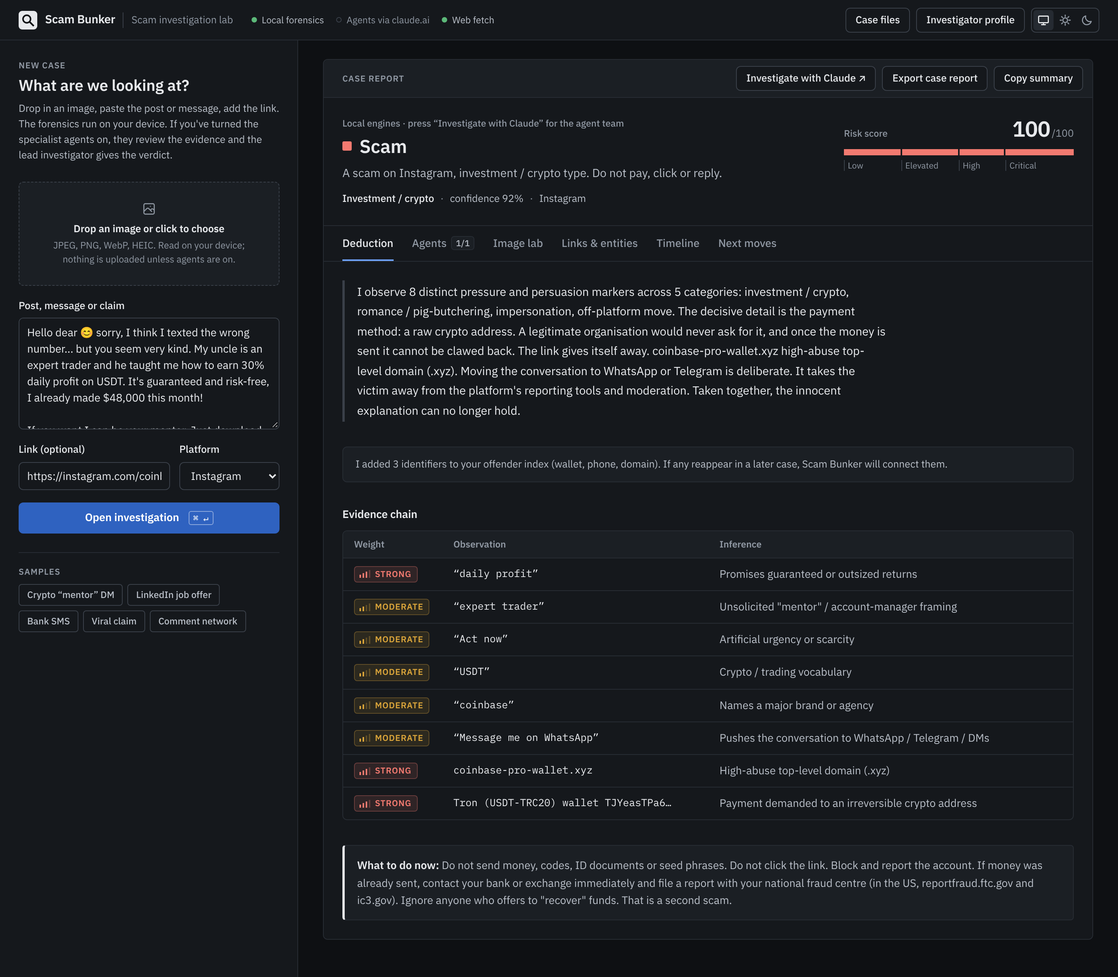
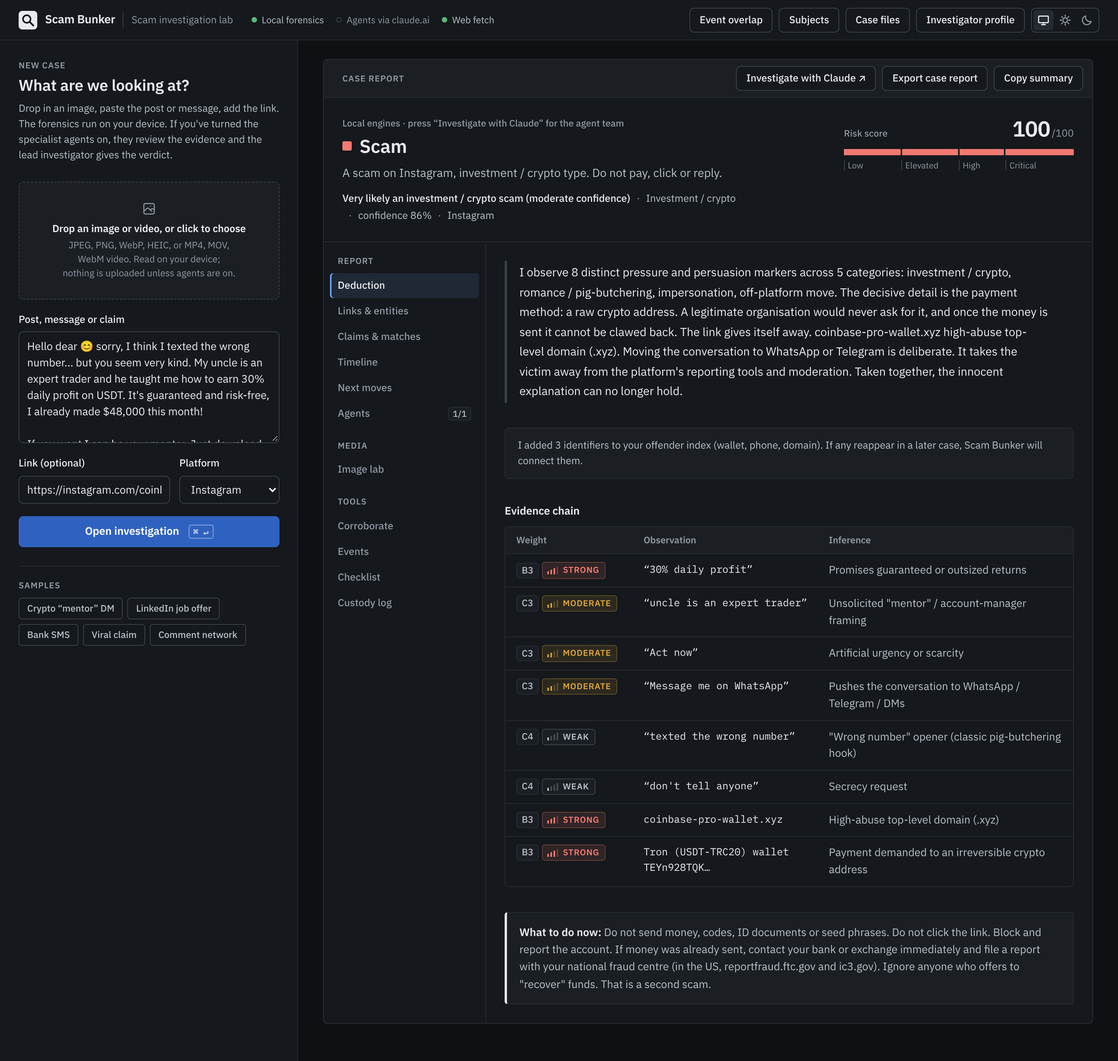
Merge Subjects/dossier into the design system; finish module consistency
- osint.css rewritten as a module stylesheet on the design tokens: Subjects
  workspace, username sweep grid, dossier cards and view, identifier table,
  case-panel attach list (wraps long wallets at 390px)
- Vertical section-nav styles scoped to #report so dialog tablists keep the
  horizontal style
- Evidence table: the weight column now accepts the Admiralty grade + weight
  cell from grading.js
- Top-bar actions wrap on phones; verdict meta wraps; mobile .row stacks
  left-aligned
- 24px checkboxes (WCAG 2.2 target size); 24px standalone link targets
- custody.js scroll regions get their own labels (duplicate landmark names);
  Subjects dialog header role="none"
- DESIGN.md: section nav, form elements, module stylesheet rules
- axe-core: 0 violations across 304 states (every section, all samples, image
  case, all dialogs, dossier view; light/dark, system/forced; 1440/390)

Claude-Session: https://claude.ai/code/session_01PLjxsD1qZzcUFAUYnbDM4b

diff --git a/public/osint.css b/public/osint.css
@@ -1,66 +1,85 @@
-/* Subject investigation & offender dossiers (public/osint.js). Scoped to .osint / .os-*; uses app.css tokens only. */
+/* Subject investigation & offender dossiers (public/osint.js, public/dossier.js).
+   Module stylesheet: scoped to .osint / .os-*; uses app.css tokens and components only (see docs/DESIGN.md). */
 .drawer.osint { width: min(1080px, calc(100vw - 32px)); max-height: calc(100vh - 40px); }
-.os-wrap { padding: 20px 22px; display: grid; gap: 12px; }
+.drawer.osint form { padding: 0; }
+.os-wrap { padding: var(--s5); display: grid; gap: var(--s4); }
+.os-wrap > *, .os-section > *, .os-section { min-width: 0; }
 .os-wrap > header { display: flex; align-items: center; justify-content: space-between; gap: 10px; }
-.os-ethics { margin: 0; padding: 10px 14px; border-radius: 10px; border: 1px dashed var(--line-2); color: var(--ink-2); font-size: 13px; }
+.os-wrap > header h3 { font-size: var(--fs-lg); }
+.os-ethics { margin: 0; padding: var(--s3) var(--s4); border: 1px solid var(--line); border-left: 3px solid var(--ink); border-radius: var(--radius-sm); background: var(--subtle); color: var(--ink-2); font-size: var(--fs-md); line-height: 1.55; }
 .os-ethics b { color: var(--ink); }
-.os-tabs { margin: 4px 0 0; }
-.osint input[type=text], .osint input[type=search], .osint select { width: 100%; background: var(--bg-2); border: 1px solid var(--line); border-radius: 10px; padding: 9px 12px; outline: none; }
-.osint textarea { min-height: 0; font: 13px/1.5 var(--mono); }
-.os-grid2 { display: grid; grid-template-columns: 1fr 1fr; gap: 10px 14px; }
+.os-tabs { margin: 0 calc(var(--s5) * -1); }
+.osint textarea { min-height: 0; font: var(--fs-md)/1.5 var(--mono); }
+.os-grid2 { display: grid; grid-template-columns: minmax(0, 1fr) minmax(0, 1fr); gap: var(--s3) var(--s4); }
 .os-grid2 .field { margin-bottom: 0; }
-.os-hint { font-size: 12px; color: var(--muted); font-weight: 400; }
-.os-bar { display: flex; flex-wrap: wrap; gap: 8px; align-items: center; }
+.os-hint { font-size: var(--fs-sm); color: var(--muted); font-weight: 400; }
+.os-bar { display: flex; flex-wrap: wrap; gap: var(--s2); align-items: center; }
 .os-bar .grow { flex: 1; min-width: 180px; }
 .os-section { display: grid; gap: 10px; }
-.os-section h4 { margin: 0; font: 600 15px var(--serif); }
-.os-sum { font: 12px var(--mono); color: var(--muted); }
+.os-section h4 { margin: 0; font-size: var(--fs-base); font-weight: 600; color: var(--ink); }
+.os-sum { font: var(--fs-sm) var(--mono); color: var(--muted); font-variant-numeric: tabular-nums; }
 
 /* Username sweep grid */
-.os-sites { list-style: none; margin: 0; padding: 0; display: grid; grid-template-columns: repeat(auto-fill, minmax(190px, 1fr)); gap: 6px; }
-.os-site { border: 1px solid var(--line); border-radius: 9px; background: var(--bg-2); padding: 8px 10px; font-size: 13px; display: grid; gap: 2px; min-width: 0; }
-.os-site .n { font-weight: 600; display: flex; justify-content: space-between; gap: 6px; align-items: baseline; }
+.os-sites { list-style: none; margin: 0; padding: 0; display: grid; grid-template-columns: repeat(auto-fill, minmax(200px, 1fr)); gap: 6px; }
+.os-site { display: grid; gap: 2px; min-width: 0; padding: var(--s2) 10px; border: 1px solid var(--line); border-radius: var(--radius); background: var(--surface); font-size: var(--fs-md); }
+.os-site .n { display: flex; justify-content: space-between; gap: 6px; align-items: baseline; font-weight: 600; }
 .os-site .n a { color: var(--ink); overflow: hidden; text-overflow: ellipsis; white-space: nowrap; }
-.os-site small { color: var(--muted); font: 11px var(--mono); overflow-wrap: anywhere; }
-.os-site[data-status=found] { border-color: color-mix(in srgb, var(--accent) 55%, var(--line)); background: var(--accent-soft); }
+.os-site small { color: var(--muted); font: var(--fs-xs) var(--mono); overflow-wrap: anywhere; }
+.os-site[data-status=found] { border-color: color-mix(in srgb, var(--accent) 45%, var(--line)); background: var(--accent-soft); }
 .os-site[data-status=found] .n a { color: var(--accent); }
-.os-site[data-status=unknown], .os-site[data-status=checking] { opacity: .62; }
-.os-site[data-status=not_found] { opacity: .45; }
-.os-site[data-status=blocked] { border-style: dashed; opacity: .7; }
-.os-st { font: 600 10px var(--mono); text-transform: uppercase; letter-spacing: .05em; padding: 1px 6px; border-radius: 5px; background: var(--surface-2); color: var(--muted); flex: none; }
-.os-site[data-status=found] .os-st { background: var(--accent); color: var(--accent-ink); }
-.os-site[data-status=blocked] .os-st { color: var(--amber); }
+.os-site[data-status=unknown], .os-site[data-status=checking], .os-site[data-status=not_found] { background: var(--subtle); }
+.os-site[data-status=unknown] .n a, .os-site[data-status=checking] .n a, .os-site[data-status=not_found] .n a { color: var(--ink-2); font-weight: 500; }
+.os-site[data-status=blocked] { border-style: dashed; }
+.os-st { flex: none; padding: 1px 6px; border-radius: var(--radius-sm); border: 1px solid var(--line); background: var(--surface); color: var(--muted); font: 600 var(--fs-xs)/1.4 var(--sans); text-transform: uppercase; letter-spacing: .05em; }
+.os-site[data-status=found] .os-st { background: var(--btn); border-color: transparent; color: var(--on-btn); }
+.os-site[data-status=blocked] .os-st { color: var(--amber); border-color: color-mix(in srgb, var(--amber) 35%, transparent); background: var(--amber-soft); }
 
 /* Dossiers */
-.os-dossiers { display: grid; grid-template-columns: minmax(0, 1fr); gap: 8px; }
-.os-dcard { display: flex; gap: 12px; align-items: center; width: 100%; text-align: left; padding: 12px 14px; border: 1px solid var(--line); border-radius: 10px; background: var(--bg-2); cursor: pointer; color: var(--ink); }
-.os-dcard:hover { border-color: var(--accent); }
-.os-dcard .t { flex: 1; min-width: 0; } .os-dcard .t b { display: block; font-size: 14.5px; } .os-dcard .t span { display: block; font-size: 12.5px; color: var(--muted); white-space: nowrap; overflow: hidden; text-overflow: ellipsis; }
-.os-risk { font: 700 18px/1 var(--serif); min-width: 44px; text-align: center; padding: 8px 6px; border-radius: 8px; }
-.os-risk.high { background: var(--red-soft); color: var(--red); } .os-risk.medium { background: var(--amber-soft); color: var(--amber); } .os-risk.low { background: var(--blue-soft); color: var(--blue); }
+.os-dossiers { display: grid; grid-template-columns: minmax(0, 1fr); gap: 6px; }
+.os-dcard { display: flex; gap: var(--s3); align-items: center; width: 100%; text-align: left; padding: 10px var(--s3); border: 1px solid var(--line); border-radius: var(--radius); background: var(--surface); cursor: pointer; color: var(--ink); }
+.os-dcard:hover { background: var(--subtle); border-color: var(--line-2); }
+.os-dcard .t { flex: 1; min-width: 0; }
+.os-dcard .t b { display: block; font-size: var(--fs-base); font-weight: 600; }
+.os-dcard .t span { display: block; font-size: var(--fs-sm); color: var(--muted); white-space: nowrap; overflow: hidden; text-overflow: ellipsis; }
+.os-risk { min-width: 44px; padding: 6px; border-radius: var(--radius-sm); border: 1px solid transparent; text-align: center; font-size: var(--fs-lg); font-weight: 600; line-height: 1.2; font-variant-numeric: tabular-nums; }
+.os-risk.high { background: var(--red-soft); color: var(--red); border-color: color-mix(in srgb, var(--red) 30%, transparent); }
+.os-risk.medium { background: var(--amber-soft); color: var(--amber); border-color: color-mix(in srgb, var(--amber) 30%, transparent); }
+.os-risk.low { background: var(--subtle); color: var(--ink-2); border-color: var(--line-2); }
 .os-chips { display: flex; flex-wrap: wrap; gap: 6px; }
-.os-table { width: 100%; border-collapse: collapse; font-size: 13px; }
-.os-table th, .os-table td { text-align: left; padding: 7px 10px; border-bottom: 1px solid var(--line); vertical-align: top; overflow-wrap: anywhere; }
-.os-table th { font: 500 10.5px var(--mono); text-transform: uppercase; letter-spacing: .08em; color: var(--muted); }
+.drawer.osint .verdict { grid-template-columns: auto minmax(0, 1fr); gap: var(--s4); align-items: center; padding: var(--s4); border: 1px solid var(--line) !important; box-shadow: none; }
+.drawer.osint .verdict h4 { font-size: var(--fs-xl) !important; overflow-wrap: anywhere; }
+
+/* Identifier table */
+.os-table { width: 100%; border-collapse: collapse; font-size: var(--fs-md); border: 1px solid var(--line); }
+.os-table th, .os-table td { text-align: left; padding: var(--s2) var(--s3); border-bottom: 1px solid var(--line); vertical-align: top; overflow-wrap: anywhere; font-variant-numeric: tabular-nums; }
+.os-table th { background: var(--subtle); font-size: var(--fs-sm); font-weight: 600; color: var(--muted); }
+.os-table tbody tr:last-child td { border-bottom: 0; }
+.os-table code { font-size: var(--fs-sm); overflow-wrap: anywhere; word-break: break-all; }
+
+/* Linked cases */
 .os-cases { list-style: none; margin: 0; padding: 0; display: grid; grid-template-columns: minmax(0, 1fr); gap: 6px; }
 .os-cases li { min-width: 0; }
-.os-cases button { width: 100%; text-align: left; display: flex; gap: 10px; align-items: center; padding: 9px 12px; border: 1px solid var(--line); border-radius: 9px; background: var(--bg-2); cursor: pointer; color: var(--ink); font-size: 13.5px; }
-.os-cases button:hover { border-color: var(--accent); }
-.os-cases .d { width: 9px; height: 9px; border-radius: 50%; flex: none; }
+.os-cases button { display: flex; gap: 10px; align-items: center; width: 100%; text-align: left; padding: var(--s2) var(--s3); border: 1px solid var(--line); border-radius: var(--radius); background: var(--surface); cursor: pointer; color: var(--ink); font-size: var(--fs-md); }
+.os-cases button:hover { background: var(--subtle); border-color: var(--line-2); }
+.os-cases .d { width: 10px; height: 10px; border-radius: 2px; flex: none; }
 .os-cases .s { flex: 1; min-width: 0; color: var(--muted); white-space: nowrap; overflow: hidden; text-overflow: ellipsis; }
 
-/* Case panel: link indicators to a subject */
-.os-attach .os-inds { display: flex; flex-wrap: wrap; gap: 6px 14px; margin: 8px 0 10px; font: 12.5px var(--mono); }
-.os-attach label { display: inline-flex; gap: 6px; align-items: center; cursor: pointer; }
+/* Case panel (Links & entities): attach indicators to a subject */
+.os-attach .os-inds { display: flex; flex-wrap: wrap; gap: 6px var(--s4); margin: var(--s2) 0 10px; font: var(--fs-md) var(--mono); }
+.os-attach label { display: inline-flex; gap: 6px; align-items: baseline; max-width: 100%; min-width: 0; cursor: pointer; word-break: break-all; }
+.os-attach label input, .os-attach label .tag { flex: none; word-break: normal; align-self: center; }
 .os-attach .os-bar select { width: auto; min-width: 200px; }
 
-.os-wrap > *, .os-section > *, .os-section { min-width: 0; }
-.os-table code { overflow-wrap: anywhere; word-break: break-all; }
 @media (max-width: 760px) {
-  .os-grid2 { grid-template-columns: 1fr; }
+  .os-wrap { padding: var(--s4); }
+  .os-tabs { margin: 0 calc(var(--s4) * -1); }
+  .os-grid2 { grid-template-columns: minmax(0, 1fr); }
   .os-table { table-layout: fixed; }
+  .os-table th:first-child { width: 72px; } .os-table th:last-child { width: 56px; }
+  .drawer.osint .verdict { grid-template-columns: minmax(0, 1fr); gap: var(--s3); }
+  .drawer.osint .verdict .os-risk { justify-self: start; }
+  .drawer.osint .verdict h4 { font-size: var(--fs-lg) !important; }
   .os-table th:nth-child(3), .os-table td:nth-child(3), .os-table th:nth-child(4), .os-table td:nth-child(4) { display: none; }
   .os-bar .grow { min-width: 0; }
-  .drawer.osint .verdict { flex-direction: row; align-items: center; }
+  .os-attach .os-bar select { width: 100%; min-width: 0; }
 }
-.drawer.osint form { padding: 0; }

diff --git a/public/app.css b/public/app.css
@@ -148,7 +148,7 @@ code, kbd, samp { font-family: var(--mono); }
 textarea, input:not([type]), input[type=url], input[type=text], input[type=search], input[type=date], input[type=time], input[type=datetime-local], input[type=number], input[type=email], select, .drawer textarea { width: 100%; background: var(--surface); border: 1px solid var(--line-2); border-radius: var(--radius); padding: var(--s2) 10px; outline: none; font-size: var(--fs-base); line-height: 1.5; resize: vertical; transition: border-color .12s, box-shadow .12s; }
 input:not([type]), input[type=url], input[type=text], input[type=search], input[type=date], input[type=time], input[type=datetime-local], input[type=number], input[type=email], select { height: 36px; padding-top: 0; padding-bottom: 0; }
 input[type=date], input[type=time] { width: auto; min-width: 160px; }
-input[type=checkbox], input[type=radio] { accent-color: var(--accent); width: 16px; height: 16px; margin: 0; }
+input[type=checkbox], input[type=radio] { accent-color: var(--accent); width: 24px; height: 24px; margin: 0; flex: none; }  /* WCAG 2.2 target size */
 input[type=file] { font-size: var(--fs-md); color: var(--ink-2); }
 input[type=file]::file-selector-button { height: 32px; margin-right: var(--s3); padding: 0 var(--s3); border: 1px solid var(--line-2); border-radius: var(--radius); background: var(--surface); color: var(--ink); font: 500 var(--fs-md) var(--sans); cursor: pointer; }
 textarea::placeholder, input::placeholder { color: var(--muted); }
@@ -183,7 +183,7 @@ textarea:focus, input:focus, select:focus { border-color: var(--focus); box-shad
 .v-body h2::before { content: ''; width: 12px; height: 12px; border-radius: 2px; background: var(--v, var(--muted)); flex: none; }
 .v-headline { margin: 0 0 var(--s3); color: var(--ink-2); font-size: 15px; line-height: 1.55; max-width: 68ch; }
 .v-tags { display: flex; flex-wrap: wrap; align-items: center; row-gap: 2px; font-size: var(--fs-md); color: var(--ink-2); }
-.v-tags .tag { border: 0; background: none; padding: 0; font: inherit; color: inherit; border-radius: 0; }
+.v-tags .tag { border: 0; background: none; padding: 0; font: inherit; color: inherit; border-radius: 0; white-space: normal; display: inline; }
 .v-tags .tag:first-child { color: var(--ink); font-weight: 500; }
 .v-tags .tag + .tag::before { content: '·'; color: var(--muted); margin: 0 var(--s2); }
 
@@ -216,10 +216,10 @@ textarea:focus, input:focus, select:focus { border-color: var(--focus); box-shad
   #report > .report-bar, #report > .verdict { grid-column: 1 / -1; }
   #report > .tabs { grid-column: 1; grid-row: 3; align-self: start; position: sticky; top: calc(var(--topbar-h) + var(--s3)); flex-direction: column; gap: 1px; padding: var(--s3) var(--s2) var(--s4); border-bottom: 0; overflow: visible; }
   #report > .panel { grid-column: 2; grid-row: 3; min-width: 0; min-height: 600px; border-left: 1px solid var(--line); }
-  .tabs button { width: 100%; height: 32px; padding: 0 10px; border: 0; border-radius: var(--radius-sm); font-size: var(--fs-md); }
-  .tabs button:hover { background: var(--subtle); }
-  .tabs button[aria-selected=true] { background: var(--accent-soft); color: var(--ink); box-shadow: inset 2px 0 0 var(--accent); }
-  .tabs .count { margin-left: auto; }
+  #report > .tabs button { width: 100%; height: 32px; padding: 0 10px; border: 0; border-radius: var(--radius-sm); font-size: var(--fs-md); }
+  #report > .tabs button:hover { background: var(--subtle); }
+  #report > .tabs button[aria-selected=true] { background: var(--accent-soft); color: var(--ink); box-shadow: inset 2px 0 0 var(--accent); }
+  #report > .tabs .count { margin-left: auto; }
   .tab-group, .tab-group:first-child { display: block; margin: 0; padding: var(--s4) 10px 6px; border: 0; }
   .tab-group:first-child { padding-top: var(--s1); }
 }
@@ -239,9 +239,9 @@ textarea:focus, input:focus, select:focus { border-color: var(--focus); box-shad
 
 /* Evidence table (.obs > .ob) */
 .obs { border: 1px solid var(--line); border-radius: var(--radius); overflow: hidden; }
-.ob { display: grid; grid-template-columns: 112px minmax(0, 1fr) minmax(0, 1.35fr); gap: var(--s4); padding: 10px 14px; align-items: start; border-top: 1px solid var(--line); }
+.ob { display: grid; grid-template-columns: 148px minmax(0, 1fr) minmax(0, 1.35fr); gap: var(--s4); padding: 10px 14px; align-items: start; border-top: 1px solid var(--line); }
 .ob:first-child { border-top: 0; }
-.ob > .w { order: -1; justify-self: start; }
+.ob:not(.gr-item) > :nth-child(3) { order: -1; justify-self: start; display: flex; flex-wrap: wrap; align-items: center; gap: 4px; }
 .ob .k { position: absolute; width: 1px; height: 1px; overflow: hidden; clip: rect(0 0 0 0); white-space: nowrap; }
 .ob p { margin: 0; font-size: var(--fs-base); }
 .ob > div:first-child p { font-family: var(--mono); font-size: var(--fs-md); color: var(--ink); overflow-wrap: anywhere; }
@@ -371,6 +371,7 @@ textarea:focus, input:focus, select:focus { border-color: var(--focus); box-shad
 .toast.show { opacity: 1; transform: translate(-50%, 0); }
 
 /* ---------- Responsive ---------- */
+@media (max-width: 1240px) { .brand-sub { display: none; } }
 @media (max-width: 1020px) {
   .topbar { position: static; height: auto; flex-wrap: wrap; gap: 10px var(--s4); padding: 10px var(--s4); }
   .status { order: 3; width: 100%; }
@@ -380,12 +381,12 @@ textarea:focus, input:focus, select:focus { border-color: var(--focus); box-shad
 }
 @media (max-width: 640px) {
   .brand-sub { display: none; }
-  .actions { margin-left: 0; width: 100%; }
+  .actions { margin-left: 0; width: 100%; flex-wrap: wrap; }
   .actions .theme-toggle { margin-left: auto; }
   .grid2, .imglab, .ph-cols { grid-template-columns: minmax(0, 1fr); }
   .ph-cols { gap: var(--s5); }
   .placeholder { padding: var(--s5) var(--s4); }
-  .row { flex-direction: column; gap: 0; }
+  .row, .panel .row { flex-direction: column; align-items: stretch; gap: 0; }
   .report-bar { flex-wrap: wrap; padding: var(--s2) var(--s3); }
   .report-label { display: none; }
   .report-actions { margin-left: 0; justify-content: flex-start; }
@@ -469,3 +470,5 @@ fieldset > legend { padding: 0 6px; margin-left: -6px; font-size: var(--fs-base)
 @media (max-width: 640px) {
   .ob.gr-item { grid-template-columns: minmax(0, 1fr); }
 }
+.linkcard .top a { display: inline-flex; align-items: center; min-height: 24px; }
+@media (max-width: 640px) { .panel .row { align-items: stretch; } .panel .row > button { align-self: flex-start; } .panel .row > button + button { margin-top: var(--s2); } }

diff --git a/public/custody.js b/public/custody.js
@@ -514,7 +514,7 @@ ${m.log.map(e => row([e.seq, esc(e.ts), esc(ACTION_LABEL[e.action] || e.action),
         <p class="muted" id="cust-recheck-out" role="status" aria-live="polite">${verifyHtml.startsWith('local:') ? verifyHtml.slice(6) : ''}</p>
       </section>
       <section aria-labelledby="cust-ev-h"><h3 id="cust-ev-h">Evidence locker</h3>
-        <div class="cust-scroll" role="region" aria-labelledby="cust-ev-h" tabindex="0"><table class="cust-table"><thead><tr><th scope="col">Item</th><th scope="col">SHA-256</th><th scope="col">Size</th><th scope="col">Acquired (UTC)</th><th scope="col">Source</th><th scope="col">Original</th></tr></thead><tbody>
+        <div class="cust-scroll" role="region" aria-label="Evidence locker table" tabindex="0"><table class="cust-table"><thead><tr><th scope="col">Item</th><th scope="col">SHA-256</th><th scope="col">Size</th><th scope="col">Acquired (UTC)</th><th scope="col">Source</th><th scope="col">Original</th></tr></thead><tbody>
         ${evidence.map(e => { const x = e.input; const notes = log.filter(n => n.action === 'evidence-note' && n.input.sha256 === x.sha256).map(n => n.input.note); return `<tr><td><b>${escH(x.kind)}</b> ${escH(x.name)}${x.note ? `<br><span class="muted">${escH(x.note)}</span>` : ''}${notes.map(n => `<br><span class="muted">Where I got this: ${escH(n)}</span>`).join('')}</td><td><code>${escH(x.sha256)}</code></td><td class="cust-nw">${escH(kb(x.size))}</td><td>${escH(x.acquiredAt)}</td><td>${linkOrDash(x.sourceUrl)}</td><td class="cust-nw">${escH(x.original)}</td></tr>`; }).join('') || '<tr><td colspan="6">No evidence recorded.</td></tr>'}
         </tbody></table></div>
         ${evidence.length ? `<div class="row" style="margin-top:12px"><label class="field grow"><span>Where I got this (recorded as a new log entry)</span><input id="cust-note" type="text" placeholder="e.g. Screenshot sent to me in a WhatsApp group on 2 May"></label>
@@ -548,7 +548,7 @@ ${m.log.map(e => row([e.seq, esc(e.ts), esc(ACTION_LABEL[e.action] || e.action),
         <div class="cust-result" id="cust-verify-out" role="status" aria-live="polite">${verifyHtml.startsWith('pkg:') ? verifyHtml.slice(4) : ''}</div>
       </section>
       <section aria-labelledby="cust-log-h"><h3 id="cust-log-h">Case log</h3>
-        <div class="cust-scroll" role="region" aria-labelledby="cust-log-h" tabindex="0"><table class="cust-table"><thead><tr><th scope="col">#</th><th scope="col">When (UTC)</th><th scope="col">Action</th><th scope="col">Detail</th><th scope="col">Entry hash</th></tr></thead><tbody>
+        <div class="cust-scroll" role="region" aria-label="Case log table" tabindex="0"><table class="cust-table"><thead><tr><th scope="col">#</th><th scope="col">When (UTC)</th><th scope="col">Action</th><th scope="col">Detail</th><th scope="col">Entry hash</th></tr></thead><tbody>
         ${log.map(e => `<tr><td>${e.seq}</td><td>${escH(e.ts)}</td><td class="cust-nw">${escH(ACTION_LABEL[e.action] || e.action)}</td><td>${escH(summarizeEntry(e))}</td><td><code title="${escH(e.hash)}">${escH(short(e.hash))}</code></td></tr>`).join('')}
         </tbody></table></div>
       </section>`;

diff --git a/public/index.html b/public/index.html
@@ -180,7 +180,7 @@
 
 <dialog id="dlg-subjects" class="drawer osint" aria-labelledby="subjects-h">
   <div class="os-wrap">
-    <header><h3 id="subjects-h">Subject investigation</h3><button type="button" class="x" id="subjects-close" aria-label="Close">×</button></header>
+    <header role="none"><h3 id="subjects-h">Subject investigation</h3><button type="button" class="x" id="subjects-close" aria-label="Close">×</button></header>
     <p class="os-ethics" id="subjects-ethics"><b>Public sources only.</b> Scam Bunker checks public profiles and public ledgers. It does no people-search, home-address, relatives or phone-owner lookups, and neither should you. A matching username is a lead, not an identification.</p>
     <div class="tabs os-tabs" role="tablist" aria-label="Subject workspace">
       <button role="tab" id="os-tab-investigate" aria-controls="os-panel-investigate" aria-selected="true" data-ostab="investigate">Investigate</button>

diff --git a/docs/DESIGN.md b/docs/DESIGN.md
@@ -34,6 +34,15 @@ Verdict colour is passed to `#verdict` as `--v` (see `VERDICT_COLOR` in `app.js`
 - **Top bar** (52px, sticky on desktop): brand, connection status (dot + text), actions, theme toggle.
 - **Shell:** a 384px intake sidebar on the left and the report sheet on the right (max 1160px). Below 1020px they stack. Below 640px every multi-column component collapses to one column, with 16px gutters.
 - **Report sheet (`#report`):** a toolbar (`.report-bar`), then the verdict summary (`.verdict`: source line, verdict, one-line finding, category · confidence · platform, risk meter), then tabs, then the panel.
+- **Report sections (`#tabs`):** one ARIA tablist, grouped by presentational `.tab-group` labels (`aria-hidden`):
+  - **Report:** Deduction, Links & entities, Claims & matches, Timeline, Next moves, Agents
+  - **Media:** Image lab, Video lab, Provenance
+  - **Tools:** Corroborate, Events, Checklist, Custody log
+
+  At ≥ 1280px it is a sticky 208px section nav on the left of the panel. Below that it is a single scrolling row with group dividers. A small script in `index.html` sets `aria-orientation`, handles Up/Down/Left/Right/Home/End and skips hidden tabs (video, provenance).
+
+  **Adding a section:** add `<button role="tab" data-tab="x" id="tab-x" aria-controls="panel-x">` under the right group and a matching `<div class="panel card" role="tabpanel" data-panel="x" id="panel-x" aria-labelledby="tab-x" tabindex="0" hidden>`. Modules call `ScamBunker.showTab('x')` and `panel('x')`.
+- **Dialogs:** `.drawer` (case files, investigator profile) and `.drawer.osint` (Subjects workspace). A dialog's own `<header>` gets `role="none"` so it doesn't add a second banner landmark.
 
 ## Components
 
@@ -62,12 +71,23 @@ Verdict colour is passed to `#verdict` as `--v` (see `VERDICT_COLOR` in `app.js`
 | `.ent` | Grid of `.box` entity groups (wallets, handles, phones…). |
 | `.empty` | One-line muted empty message inside a panel. |
 | `.drawer` | Modal `<dialog>` with header, body and footer. |
+| Form elements | `.field` (label + control), `.row` (fields side by side; they stack on mobile), and the text, url, date, time, number, select and textarea inputs (36px, 6px radius). Also `fieldset.box` with `legend`, `details > summary` (≥ 24px target), 24px checkboxes (WCAG 2.2 target size) and a styled file-picker button. |
+| `.ghost.sm`, `.primary.sm` | Compact actions inside panels. |
+
+### Module stylesheets
+
+Feature modules may ship their own stylesheet, but only if it is scoped to the module's prefix and uses these tokens and components. No new colours, radii or fonts.
+
+- `public/osint.css` (`.os-*`): Subjects workspace, username sweep grid, dossier cards, identifier table.
+- `public/events.css` (`#panel-events .ev-*`).
+
+Styles injected by `custody.js` and `video.js` are normalised from `app.css` under "Module consistency".
 
 The risk meter (`#gauge`) is a segmented scale. Its bands (Low 0–24, Elevated 25–49, High 50–69, Critical 70–100) match the rule engine's verdict thresholds. `app.js` fills it by setting `stroke-dashoffset` on `#g-fg`, a 314-unit line.
 
 ## Accessibility
 
-- Text contrast is ≥ 4.5:1 in both themes, checked with axe-core: zero violations across all tabs, samples, an image case and both dialogs, at 1440 and 390, under system and forced themes.
+- Text contrast is ≥ 4.5:1 in both themes, checked with axe-core: zero violations across every report section, all samples, an image case, the case-files, profile and Subjects dialogs and the dossier view, at 1440 and 390, under system and forced themes.
 - Every interactive element gets a 2px `--focus` outline on `:focus-visible`.
 - `prefers-reduced-motion` disables all animation and transitions.
 - `forced-colors` keeps badge outlines and the meter visible.
